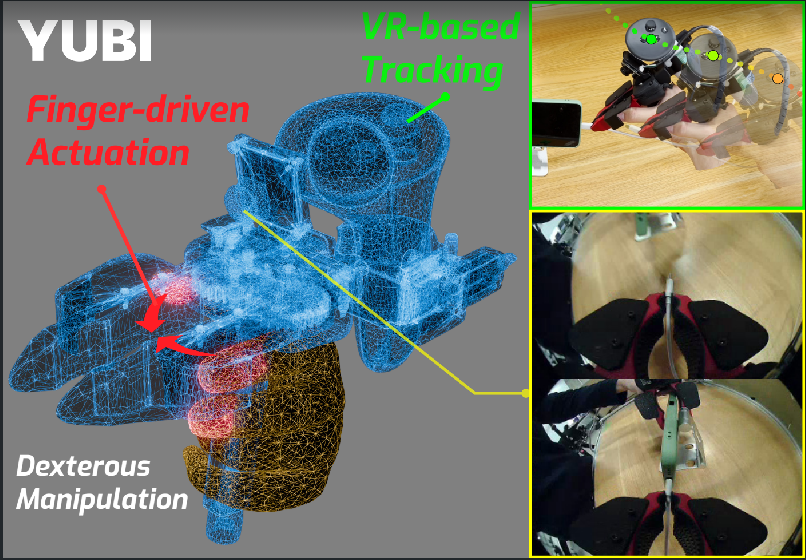
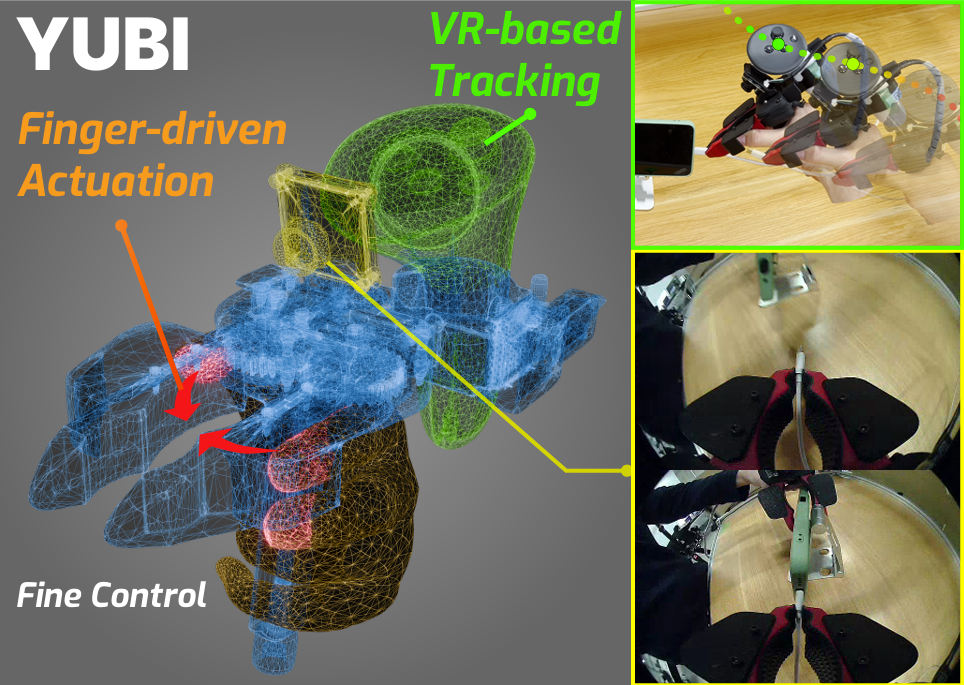
Add Portable and Stationary data collection rigs
Add the YUBI Portable data collection rig (chest-mounted, wearable) and the YUBI Stationary data collection desk, including STEP/STL files, BOMs, and an additional FR_FLANGE part.

- New directories: STEP/portable, STL/portable, STL/stationary, STL/flange

- New BOMs: docs/BOM/Portable_data_collection_BOM.csv and Stationary_data_collection_BOM.csv, following the existing YUBI Glove BOM layout with Vendor and Link columns in the two trailing slots

- README updates: Part Overview gains the two new rigs with side-by-side thumbnails; Repository Structure lists the new directories; Contributors section adds Makoto Sugiura and Takehiko Ohkawa (AI Robot Association)

- Media: Stationary.png and Portable.png for the Part Overview; refreshed YUBI_part_names.png and teaser_v3.png

diff --git a/README.md b/README.md
@@ -4,7 +4,7 @@
 
 <p align="center">
   <a href="https://global.toyota/en/mobility/frontier-research/" target="_blank">
-    <img src="media/frc-logo-yoko.png" alt="Frontier Research Center, Toyota Motor Corporation" width="300">
+    <img src="media/frc-logo-yoko.png" alt="Frontier Research Center, Toyota Motor Corporation" height="250">
   </a>
 </p>
 
@@ -22,6 +22,14 @@
 
 - **YUBI Glove** — A wearable device for collecting finger motion data during teleoperation.
 - **YUBI Gripper** — A robot-mounted gripper actuated by DYNAMIXEL servos for dexterous manipulation.
+- **Stationary data collection desk** — A desk-mounted rig for data collection.
+- **Portable data collection rig** — A wearable rig for portable data collection.
+
+<p align="center">
+  <img src="media/Stationary.png" alt="Stationary data collection desk" height="250">
+  &nbsp;&nbsp;
+  <img src="media/Portable.png" alt="Portable data collection rig" height="250">
+</p>
 
 ## Repository Structure
 
@@ -29,10 +37,14 @@
 .
 ├── STEP/
 │   ├── glove/       # YUBI Glove (teleoperation device) STEP files
-│   └── gripper/     # YUBI Gripper (robot-mounted, DYNAMIXEL) STEP files
+│   ├── gripper/     # YUBI Gripper (robot-mounted, DYNAMIXEL) STEP files
+│   └── portable/    # Portable data collection rig STEP files
 ├── STL/
-│   ├── glove/       # YUBI Glove STL files (for 3D printing)
-│   └── gripper/     # YUBI Gripper STL files (for 3D printing)
+│   ├── glove/                  # YUBI Glove STL files (for 3D printing)
+│   ├── gripper/                # YUBI Gripper STL files (for 3D printing)
+│   ├── portable/               # Portable data collection rig STL files
+│   ├── stationary/             # Stationary data collection desk STL files
+│   └── flange/                 # Flange STL files
 ├── docs/
 │   ├── BOM/                    # Bill of Materials (CSV)
 │   └── AssemblyInstruction/    # Assembly guides (PDF)
@@ -57,6 +69,8 @@
 | Daiki Fukunaga | Frontier Research Center, Toyota Motor Corporation | Mechanical Design |
 | Jumpei Arima | Frontier Research Center, Toyota Motor Corporation | Concept Design |
 | Yuki Noguchi | Frontier Research Center, Toyota Motor Corporation | Concept Design |
+| Makoto Sugiura| AI Robot Association | Data collection rig Design |
+| Takehiko Ohkawa| AI Robot Association | Data collection concept Design |
 
 ## License
 